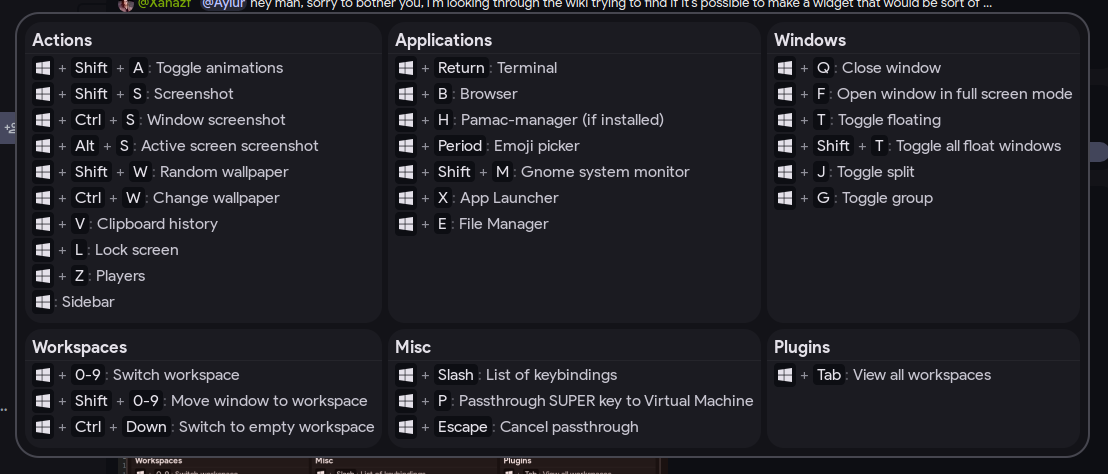
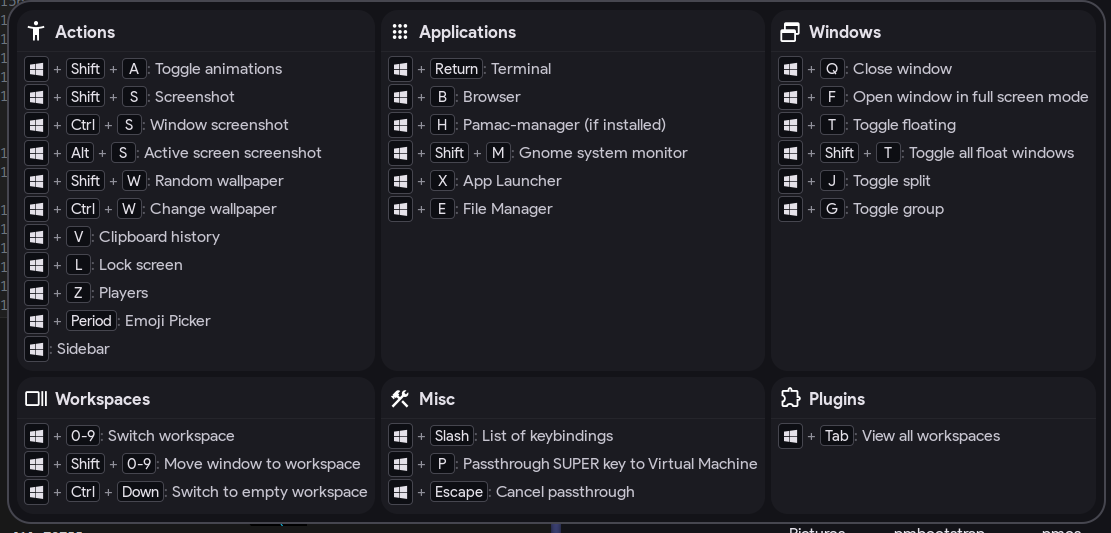
Better cheatsheet design

Changed region(s): [[0.0, 0.0, 1.0, 1.0], [0.6751, 0.7089, 0.9206, 0.827]]

diff --git a/ags/modules/cheatsheet.ts b/ags/modules/cheatsheet.ts
@@ -1,5 +1,6 @@
 import Gtk from "gi://Gtk?version=3.0";
 import popupwindow from "modules/misc/popupwindow";
+import { MaterialIcon } from 'icons';
 const hyprland = await Service.import("hyprland");
 
 const WINDOW_NAME = "cheatsheet";
@@ -21,6 +22,14 @@ const icons = {
     "super": ""
 }
 
+const category_icons = {
+    "actions": "accessibility_new",
+    "applications": "apps",
+    "windows": "select_window",
+    "workspaces": "overview_key",
+    "misc": "construction",
+    "plugins": "extension"
+}
 
 const CheatSheet = () => Widget.FlowBox({
     attribute: {
@@ -31,10 +40,15 @@ const CheatSheet = () => Widget.FlowBox({
                     vertical: true,
                     vpack: "fill",
                     children: [
-                        Widget.Label({
-                            label: category,
-                            class_name: "title",
-                            hpack: "start"
+                        Widget.Box({
+                            children: [
+                                MaterialIcon(category_icons[category.toLowerCase()] || "category"),
+                                Widget.Label({
+                                    label: category,
+                                    class_name: "title",
+                                    hpack: "start"
+                                }),
+                            ]
                         }),
                         Widget.Separator()
                     ]

diff --git a/ags/style.css b/ags/style.css
@@ -1159,8 +1159,11 @@ switch:checked:active slider {
     background-color: @surfaceContainerLowest;
     padding-left: 4px;
     padding-right: 4px;
+    min-width: 15px;
+    font-size: 15px;
     color: @onSurface;
     border-radius: 4px;
+    border: 1px solid @outlineVariant;
 }
 
 .cheatsheet .category .plus {
@@ -1184,6 +1187,11 @@ switch:checked:active slider {
     margin-left: 7px;
     margin-right: 7px;
     font-size: 17px;
+}
+
+.cheatsheet .category .material_icon {
+    margin-left: 7px;
+    font-weight: 400;
 }
 
 .cheatsheet .category .awesome_icon.key {
